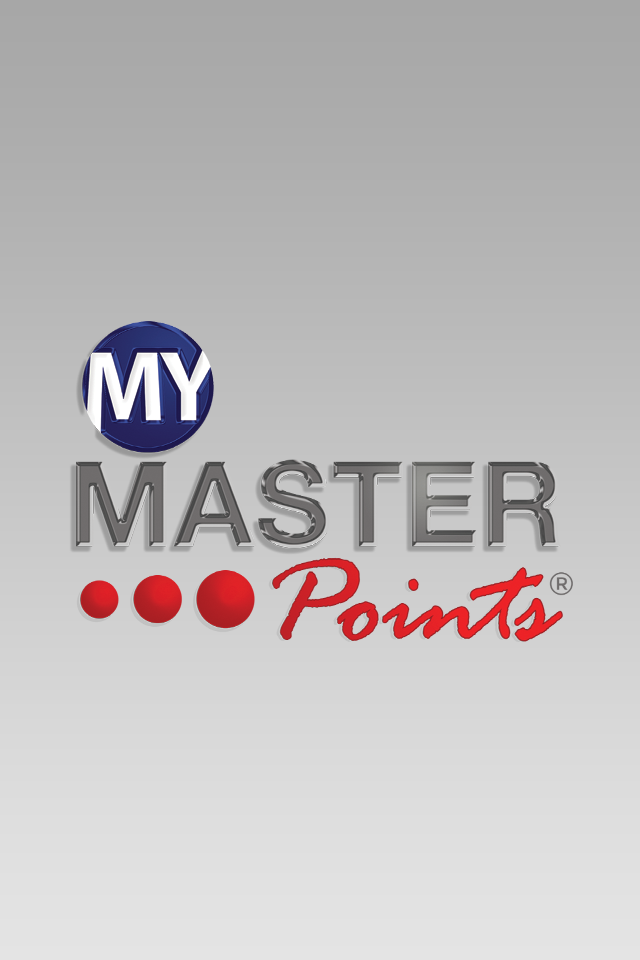
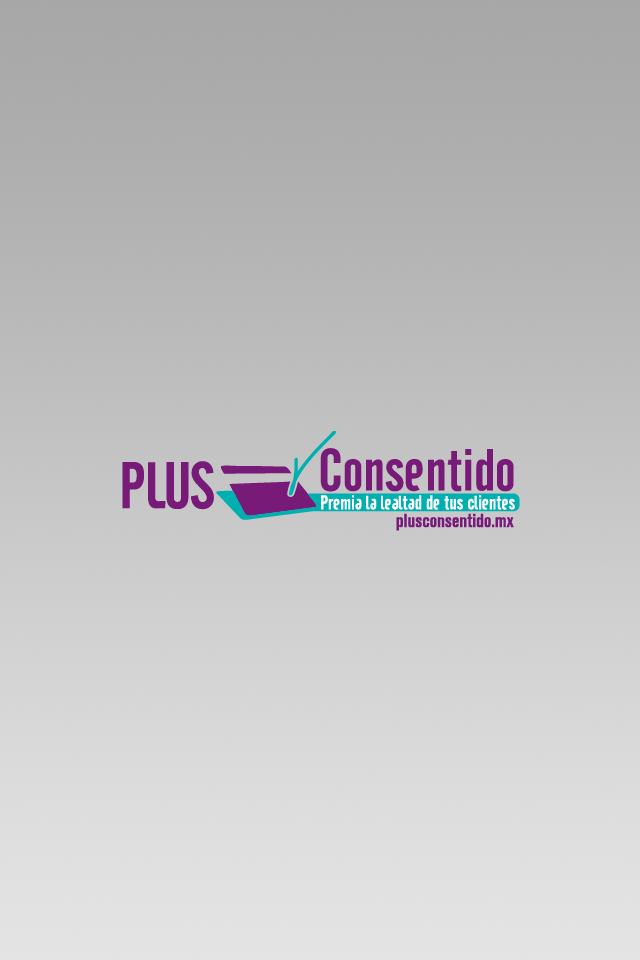
Defaults to Plus Consentido

Changed region(s): [[0.0938, 0.3125, 0.9062, 0.6875]]

diff --git a/www/js/index.js b/www/js/index.js
@@ -1,8 +1,4 @@
-/*
- * Listo!
- */
-
-var plusServer="http://mymasterpoints.com/system/";
+var plusServer="http://plusconsentido.mx/v2/";
 var getScript="index.php/tienda/getMobil";
 var gcmScript="index.php/tienda/saveRegGCM";
 var optionScript="index.php/tienda/mobileSaveOpt";
@@ -10,14 +6,6 @@ var miUbicacion={lat:0,lng:0}, mapa, watchID, estado=0,retornoObj,
 	bounds, myWindow, thePush, panelOpen=false, dorefresh=false, empresas,
 	mapaIniciado=false, markersArray=[],mapaCargado=false,idioma,devicePlatform,pushNotification,listoesto;
 	
-// Depending on the device, a few examples are: devicePlatform=
-//   - "Android"
-//   - "BlackBerry"
-//   - "iOS"
-//   - "webOS"
-//   - "WinCE"
-//   - "Tizen"
-
 var app = {
 	debug:false,
     // Application Constructor
@@ -78,9 +66,9 @@ var app = {
     },
     //inicio de autologin
     autoLogin:function(){
-    	var tarjeta = window.localStorage.getItem("masterpoints_userTarjeta");
-		var email = window.localStorage.getItem("masterpoints_userEmail");
-		var fnac = window.localStorage.getItem("masterpoints_userFnac");
+    	var tarjeta = window.localStorage.getItem("plusconsentido_userTarjeta");
+		var email = window.localStorage.getItem("plusconsentido_userEmail");
+		var fnac = window.localStorage.getItem("plusconsentido_userFnac");
 		if(tarjeta!=null) $("#tarjeta").val(tarjeta);
 		if(email!=null) $("#email").val(email);
 		if(fnac!=null) $("#fnac").val(fnac);
@@ -113,7 +101,7 @@ var app = {
 		}
     },
     alerta:function (message){
-		navigator.notification.alert(message, this.alertCallback, 'My Master Points', 'Ok');
+		navigator.notification.alert(message, this.alertCallback, 'Plus Consentido', 'Ok');
 	},
 	alertCallback:function (){
 		
@@ -218,9 +206,9 @@ function doLogin(cambiar,isrefresh){
             if(retorno.resultado=="OK"){//almacenamos la tarjeta
             	retornoObj=retorno;
             	
-            	window.localStorage.setItem("masterpoints_userTarjeta",datos.tarjeta);
-            	window.localStorage.setItem("masterpoints_userEmail",datos.email);
-            	window.localStorage.setItem("masterpoints_userFnac",datos.fnac);
+            	window.localStorage.setItem("plusconsentido_userTarjeta",datos.tarjeta);
+            	window.localStorage.setItem("plusconsentido_userEmail",datos.email);
+            	window.localStorage.setItem("plusconsentido_userFnac",datos.fnac);
             	
 	            registroPush();
 	            
@@ -413,7 +401,7 @@ $(document).on("pagecontainerchange", function( event, ui ) {
 });
 
 function showSpinner(){
-	window.plugins.spinnerDialog.show('My Master Points','',true);
+	window.plugins.spinnerDialog.show('Plus Consentido','',true);
 }
 
 function doAgregarUbicacionesMapa(){
@@ -579,7 +567,7 @@ function saveReg(regid){
 	app.log('guardando token en db:'+regid);
 	var datos={
     	regid:regid,
-        tarjeta:window.localStorage.getItem("masterpoints_userTarjeta"),
+        tarjeta:window.localStorage.getItem("plusconsentido_userTarjeta"),
         os:devicePlatform
     };
     

diff --git a/www/main.html b/www/main.html
@@ -11,7 +11,7 @@
         <link rel="stylesheet" href="js/lib/jquery.mobile-1.4.5.min.css">
         
         <link rel="stylesheet" type="text/css" href="css/index.css" />
-        <title>My Master Points</title>
+        <title>Plus Consentido</title>
     </head>
     <body>
         
@@ -63,7 +63,7 @@
         <div data-role="page" id="pageWelcome">
         	<div data-role="header" data-position="fixed" style="overflow:hidden;">
         		<a href="#opciones" data-icon="gear" class="ui-btn-left" data-iconpos="notext" id="botonOpciones">Menu</a>
-				<h2>My Master Points</h2>
+				<h2>Plus Consentido</h2>
 			</div>
             <div data-role="main" class="ui-content">
                 <img id="logoTienda" src="images/logoTienda.png" align="center" width="100%"><br>
